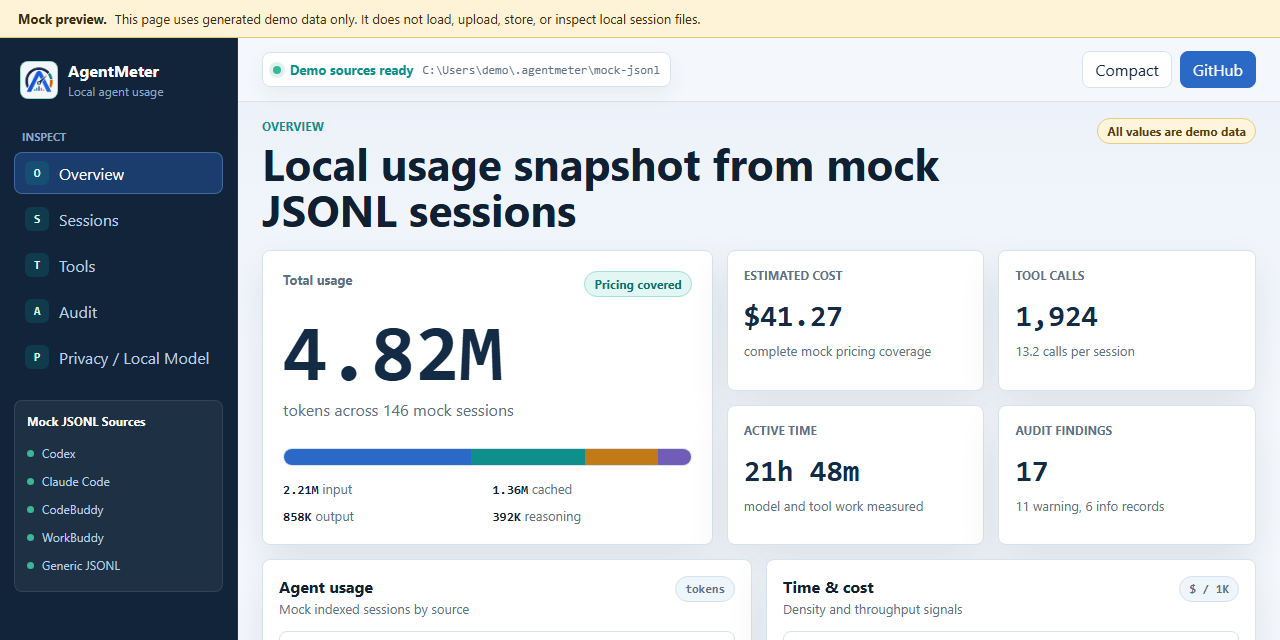
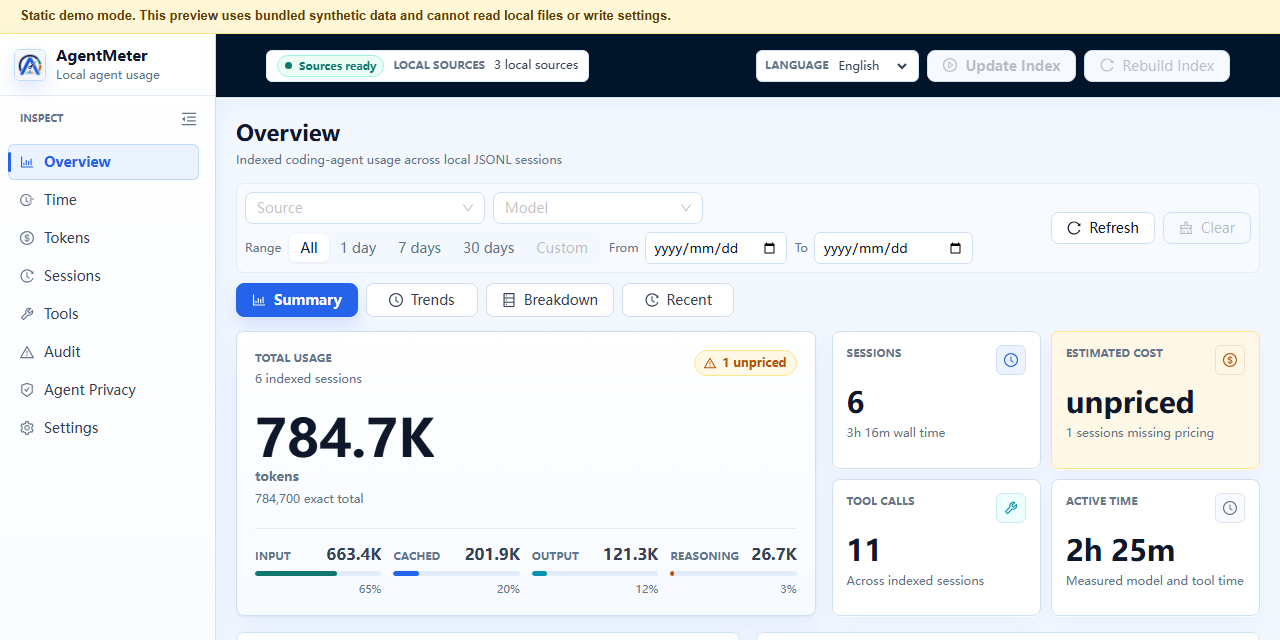
chore(release): prepare v0.3.0

diff --git a/CHANGELOG.md b/CHANGELOG.md
@@ -4,9 +4,35 @@ All notable changes to AgentMeter are documented in this file.
 
 ## [Unreleased]
 
+## [v0.3.0] - 2026-06-28
+
+### Added
+
+- Added a dedicated time attribution page with session duration, time composition, slow-session, and tool-duration views.
+- Added a dedicated tokens page for token usage and estimated-cost analysis.
+- Added scoped usage breakdowns and source-instance identity so usage can be filtered by agent family, source instance, and project.
+- Added Cursor source detection and expanded privacy profile workflows across the Web UI, TUI, and CLI.
+- Added audit token and shell-command views, including shell-command filtering for tool analytics.
+- Added a static GitHub Pages demo plus repository screenshot and social preview assets for public project pages.
+- Added multi-platform release archives for Windows, Linux, and macOS on amd64 and arm64, with SHA256 checksums.
+
 ### Changed
 
-- Expanded release automation to build Windows, Linux, and macOS portable artifacts for amd64 and arm64, with SHA256 checksums.
+- Split audit and tool analytics into focused summary, detail, findings, tool-call, and shell-command routes.
+- Consolidated Web UI page shell patterns, display preferences, compact number formatting, and responsive dashboard styling.
+- Refined query aggregation for scoped usage, estimated costs, orphan token records, and source filters.
+- Updated installation, supported-agent, privacy, release-distribution, repository setup, and validation documentation.
+
+### Fixed
+
+- Fixed GitHub Pages deployment and demo links so the live preview uses the default Pages URL.
+- Fixed estimated-cost aggregation and scope filter range behavior.
+- Ignored orphan token usage costs so detached token records do not skew totals.
+
+### Release Notes
+
+- Release assets are packaged as `AgentMeter-windows-amd64.zip`, `AgentMeter-windows-arm64.zip`, `AgentMeter-linux-amd64.tar.gz`, `AgentMeter-linux-arm64.tar.gz`, `AgentMeter-darwin-amd64.tar.gz`, and `AgentMeter-darwin-arm64.tar.gz`.
+- Each release includes `checksums.txt`; archives include the executable, built Web assets, README files, license, and changelog.
 
 ## [v0.2.0] - 2026-06-28
 
@@ -50,6 +76,7 @@ All notable changes to AgentMeter are documented in this file.
 
 - Initial MVP release with the redesigned AgentMeter UI.
 
-[Unreleased]: https://github.com/LyleMi/AgentMeter/compare/v0.2.0...HEAD
+[Unreleased]: https://github.com/LyleMi/AgentMeter/compare/v0.3.0...HEAD
+[v0.3.0]: https://github.com/LyleMi/AgentMeter/compare/v0.2.0...v0.3.0
 [v0.2.0]: https://github.com/LyleMi/AgentMeter/compare/v0.1.0...v0.2.0
 [v0.1.0]: https://github.com/LyleMi/AgentMeter/releases/tag/v0.1.0

diff --git a/docs/assets/README.md b/docs/assets/README.md
@@ -7,3 +7,15 @@ Use synthetic or redacted data for public images.
 
 Do not include real prompts, secrets, private paths, repository names, raw
 session IDs, or unredacted audit evidence in public assets.
+
+## Public Image Policy
+
+- Keep public screenshots synthetic or redacted before publishing them.
+- Keep the README screenshot in Git as one optimized current image. Replace
+  `screenshots/overview.png` in place instead of adding dated screenshot
+  history.
+- Do not use Git LFS for these small public PNG assets. Prefer compression and
+  keep routine screenshots roughly under 300 KB.
+- GitHub Pages URLs are fine for latest/demo/social-preview assets, including
+  `social-preview.png`, but do not use a Pages URL as the only README screenshot
+  source when the image should stay versioned with the repository.